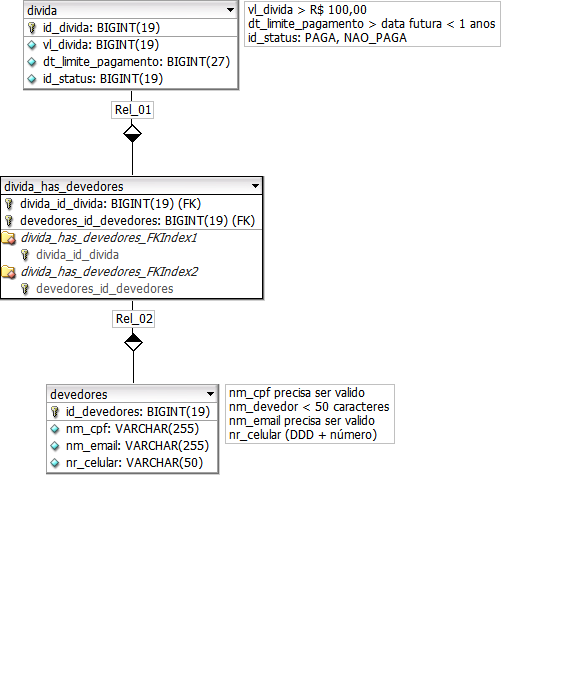
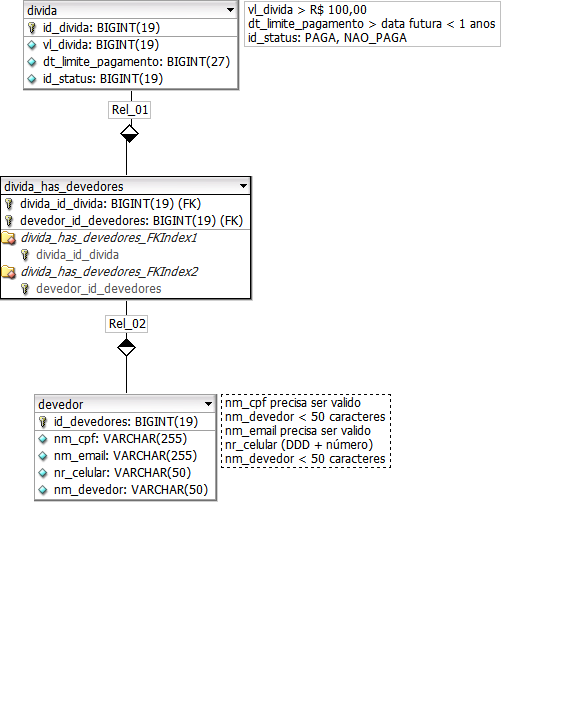
Hibernate e mysql funcionando

Changed region(s): [[0.0, 0.0, 0.7727, 0.7145], [0.8024, 0.0311, 0.8619, 0.0621]]

diff --git a/src/main/resources/templates/divida/formDivida.html b/src/main/resources/templates/divida/formDivida.html
@@ -1,0 +1,20 @@
+<!DOCTYPE html>
+<html>
+<head>
+	<title>PapDevApp</title>
+</head>	  
+<body>
+	  
+	<h1>Cadastro de Divida:</h1>
+	<form method="post"> 
+		Valor: <input type="text" value="" name="vl_divida"/>
+		Data de Pagamento:  <input type="date" value="" name="dt_limite_pagamento"/>
+		Status <input type="text" value="NAO_PAGO" name="st_pagamento" disabled/>
+		
+		<button type="submit">Salvar</button>
+		
+	</form>
+	  
+</body>
+
+</html>

diff --git a/src/main/java/com/pagdevapp/models/Divida.java b/src/main/java/com/pagdevapp/models/Divida.java
@@ -1,0 +1,67 @@
+package com.pagdevapp.models;
+
+import java.io.Serializable;
+import java.math.BigDecimal;
+import java.time.LocalDateTime;
+
+import javax.persistence.Column;
+import javax.persistence.Entity;
+import javax.persistence.GeneratedValue;
+import javax.persistence.GenerationType;
+import javax.persistence.Id;
+
+import com.fasterxml.jackson.databind.annotation.JsonDeserialize;
+import com.fasterxml.jackson.databind.annotation.JsonSerialize;
+import com.fasterxml.jackson.datatype.jsr310.deser.LocalDateTimeDeserializer;
+import com.pagdevapp.utils.LocalDateTimeSerializer;
+import com.sun.istack.NotNull;
+
+@Entity
+public class Divida implements Serializable{
+	
+	private static final long SerialVersionUID = 1L;
+	
+	@Id
+	@Column(name = "id_divida")
+	@GeneratedValue(strategy = GenerationType.IDENTITY)
+	private Long idDivida;
+	
+	@NotNull
+	@Column(name = "vl_divida")
+	private BigDecimal vlDivida;
+	
+	@NotNull
+	@Column(name = "dt_limite_pagamento")
+	@JsonSerialize(using = LocalDateTimeSerializer.class)
+	@JsonDeserialize(using = LocalDateTimeDeserializer.class)
+	private LocalDateTime dtLimitePagamento;
+	
+	@NotNull
+	@Column(name = "st_pagamento")
+	private String status;
+	
+	public Long getIdDivida() {
+		return idDivida;
+	}
+	public void setIdDivida(Long idDivida) {
+		this.idDivida = idDivida;
+	}
+	public BigDecimal getVlDivida() {
+		return vlDivida;
+	}
+	public void setVlDivida(BigDecimal vlDivida) {
+		this.vlDivida = vlDivida;
+	}
+	public LocalDateTime getDtLimitePagamento() {
+		return dtLimitePagamento;
+	}
+	public void setDtLimitePagamento(LocalDateTime dtLimitePagamento) {
+		this.dtLimitePagamento = dtLimitePagamento;
+	}
+	public String getIdStatus() {
+		return status;
+	}
+	public void setIdStatus(String status) {
+		this.status = status;
+	}	
+}

diff --git a/src/main/java/com/pagdevapp/DataConfiguration.java b/src/main/java/com/pagdevapp/DataConfiguration.java
@@ -1,0 +1,36 @@
+package com.pagdevapp;
+
+import javax.sql.DataSource;
+
+import org.springframework.context.annotation.Bean;
+import org.springframework.context.annotation.Configuration;
+import org.springframework.jdbc.datasource.DriverManagerDataSource;
+import org.springframework.orm.jpa.JpaVendorAdapter;
+import org.springframework.orm.jpa.vendor.Database;
+import org.springframework.orm.jpa.vendor.HibernateJpaVendorAdapter;
+
+@Configuration
+public class DataConfiguration {
+
+	@Bean
+	public DataSource dataSource() {
+		DriverManagerDataSource dataSource = new DriverManagerDataSource();
+		dataSource.setDriverClassName("com.mysql.cj.jdbc.Driver");
+		dataSource.setUrl("jdbc:mysql://localhost:3306/pagdevapp?useTimezone=true&serverTimezone=UTC");
+		dataSource.setUsername("root");
+		dataSource.setPassword("marcilio");
+		return dataSource;
+	}
+	
+	@Bean
+	public JpaVendorAdapter jpaVendorAdapter() {
+		HibernateJpaVendorAdapter adapter = new HibernateJpaVendorAdapter();
+		adapter.setDatabase(Database.MYSQL);
+		adapter.setShowSql(true);
+		adapter.setGenerateDdl(true);
+		adapter.setDatabasePlatform("org.hibernate.dialect.MariaDBDialect");
+		adapter.setPrepareConnection(true);
+		return adapter;
+	}
+	
+}

diff --git a/src/main/java/com/pagdevapp/controllers/DividaController.java b/src/main/java/com/pagdevapp/controllers/DividaController.java
@@ -1,0 +1,29 @@
+package com.pagdevapp.controllers;
+
+import org.springframework.beans.factory.annotation.Autowired;
+import org.springframework.stereotype.Controller;
+import org.springframework.web.bind.annotation.RequestMapping;
+import org.springframework.web.bind.annotation.RequestMethod;
+
+import com.pagdevapp.models.Divida;
+import com.pagdevapp.repository.DividaRepository;
+
+@Controller
+public class DividaController {
+
+	@Autowired
+	private DividaRepository dr;
+	
+	@RequestMapping(value="/cadastrarDivida", method=RequestMethod.GET)
+	public String form() {
+		return "divida/formDivida";
+	}	
+	
+	@RequestMapping(value="/cadastrarDivida", method=RequestMethod.POST)
+	public String form(Divida divida) {
+		
+		dr.save(divida);
+		
+		return "redirect:/cadastrarDivida";
+	}
+}

diff --git a/src/main/java/com/pagdevapp/utils/LocalDateTimeSerializer.java b/src/main/java/com/pagdevapp/utils/LocalDateTimeSerializer.java
@@ -1,0 +1,14 @@
+package com.pagdevapp.utils;
+import java.io.IOException;
+import java.time.LocalDateTime;
+
+import com.fasterxml.jackson.core.JsonGenerator;
+import com.fasterxml.jackson.databind.JsonSerializer;
+import com.fasterxml.jackson.databind.SerializerProvider;
+
+public class LocalDateTimeSerializer extends JsonSerializer<LocalDateTime> {
+    @Override
+    public void serialize(LocalDateTime arg0, JsonGenerator arg1, SerializerProvider arg2) throws IOException {
+        arg1.writeString(arg0.toString());
+    }
+}

diff --git a/src/main/java/com/pagdevapp/controllers/IndexController.java b/src/main/java/com/pagdevapp/controllers/IndexController.java
@@ -1,10 +1,10 @@
-package com.pagdevapp.pagdevapp;
+package com.pagdevapp.controllers;
 
 import org.springframework.stereotype.Controller;
 import org.springframework.web.bind.annotation.RequestMapping;
 
 @Controller
-public class indexController {
+public class IndexController {
 
 	@RequestMapping("/")
 	public String index() {

diff --git a/src/main/java/com/pagdevapp/repository/DividaRepository.java b/src/main/java/com/pagdevapp/repository/DividaRepository.java
@@ -1,0 +1,9 @@
+package com.pagdevapp.repository;
+
+import org.springframework.data.repository.CrudRepository;
+
+import com.pagdevapp.models.Divida;
+
+public interface DividaRepository extends CrudRepository<Divida, String> {
+	
+}

diff --git a/src/main/java/com/pagdevapp/PagdevappApplication.java b/src/main/java/com/pagdevapp/PagdevappApplication.java
@@ -1,4 +1,4 @@
-package com.pagdevapp.pagdevapp;
+package com.pagdevapp;
 
 import org.springframework.boot.SpringApplication;
 import org.springframework.boot.autoconfigure.SpringBootApplication;
